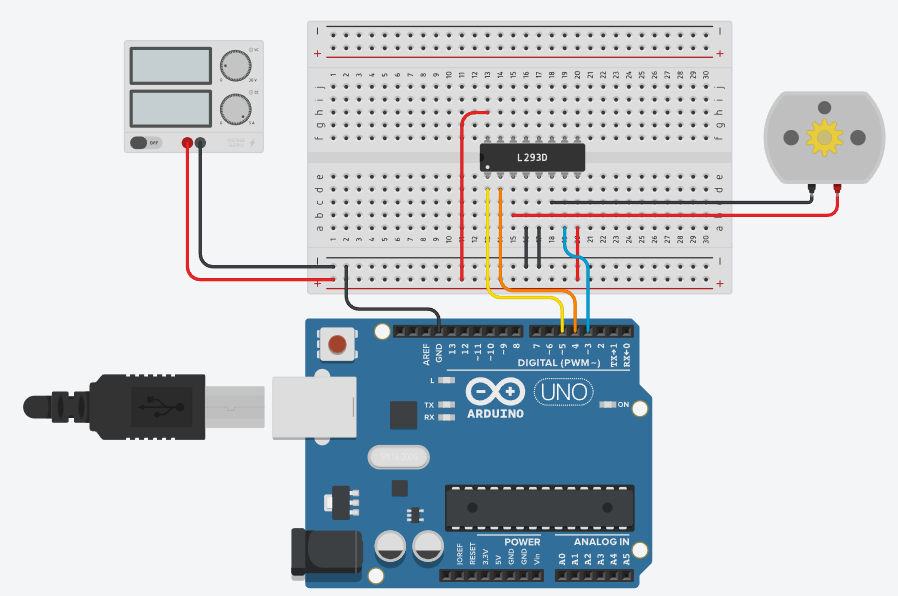
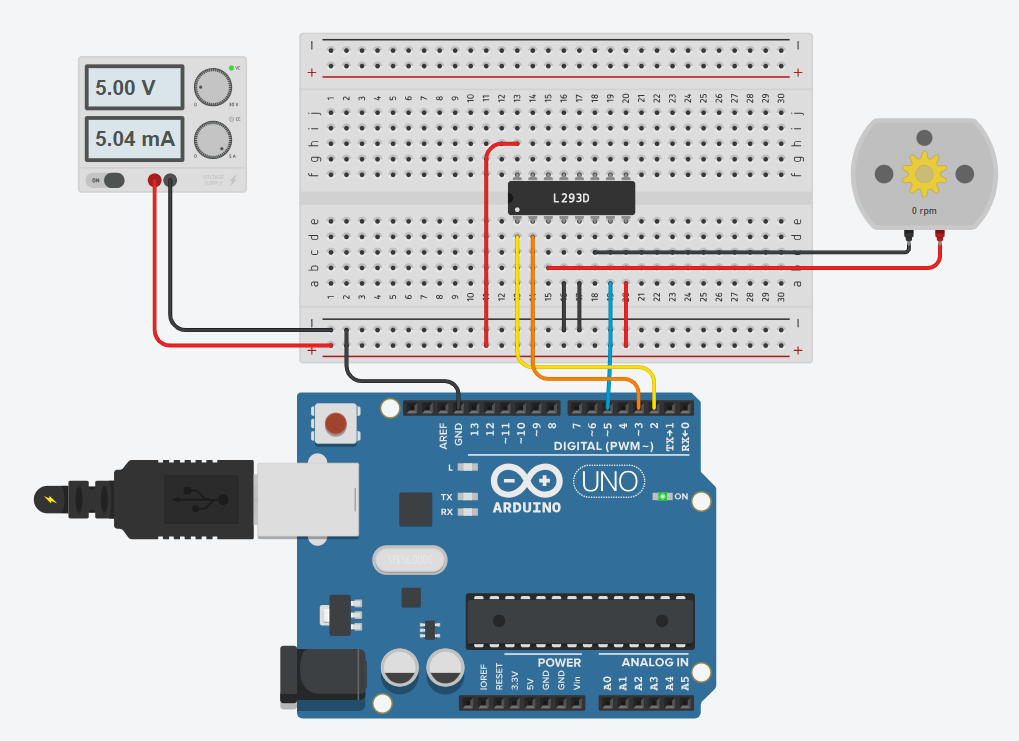
Bugfix - reported by Martin Kohl.

Changed region(s): [[0.0, 0.0302, 0.9978, 0.9966]]

diff --git a/sensors-and-actuators/motors/DCMotor-L293/README.md b/sensors-and-actuators/motors/DCMotor-L293/README.md
@@ -18,30 +18,30 @@ With the proper data inputs, each pair of drivers forms a **full-H (or bridge)**
 or motor applications.
 
 
+## Motor Forward and Backward
+
 ## Wiring Diagram 
 
-Connect the L293D pin 1 (M1 PWM) to the digital (PWM) pin 5 on the Arduino.  
-Output any integer between 0 and 255, where 0 will be off, 128 is half speed and 255 is max speed.
-
-L293D pin 2 (M1 direction 0/1) and L293D pin 7 (M1 direction 1/0) to the digital Arduino pins 4 and 3. 
-Output one pin as HIGH and the other pin as LOW, and the motor will spin in one direction.
-Reverse the outputs to LOW and HIGH, and the motor will spin in the other direction
+Connect the L293D ENABLE 1,2 (pin 1) to the digital pin 2 on the Arduino, 
+L293D Input 1 (pin 2) to Arduino digital pin 3 (PWM), 
+and L293D Input 2 (pin 7) to Arduino digital pin 5 (PWM).   
 
 ![DC Motor](DC-Motor-L293D.png)
 
-Note that the **DC motor needs its own power supply** (more current and sometimes higher voltage).
-In this case, the two **GND potentials must be connected** to each other (see circuit).
-
+Note that the **DC motor needs its own power supply** (more current and 
+sometimes higher voltage).
+In this case, the two **GND potentials must be connected** to each other!!
 
 
 ## Source Code
 
-No library is required for this example, since all signals can be output directly via the Arduino pins.
+No library is required for this example, since all signals can be output 
+directly via the Arduino pins.
 
 ```C
-const int ENABLE = 5;
-const int DIR_A = 3;
-const int DIR_B = 4;
+const int ENABLE = 2;
+const int DIR_A = 3;	
+const int DIR_B = 5;
 
 void setup() 
 {
@@ -52,29 +52,89 @@ void setup()
 
 void loop() 
 {
-    digitalWrite(ENABLE,HIGH);  
+    digitalWrite(ENABLE,HIGH); 
+  
+  	// forward
     digitalWrite(DIR_A,HIGH);    
     digitalWrite(DIR_B,LOW);
     delay(1000);
 
-    digitalWrite(ENABLE,LOW); 
+  	// stop
+    digitalWrite(DIR_A,LOW);    
+    digitalWrite(DIR_B,LOW);
     delay(1000);    
 
-    digitalWrite(ENABLE,HIGH); 
+  	// backward
     digitalWrite(DIR_A,LOW); 
     digitalWrite(DIR_B,HIGH);
     delay(1000);
 
-    digitalWrite(ENABLE,LOW); 
+  	// stop
+    digitalWrite(DIR_A,LOW);    
+    digitalWrite(DIR_B,LOW);
     delay(1000);    
 }
 ```
-Note that we need a **delay between the commands** to give the DC motor some time to move to follow.
+Note that we need a **delay between the commands** to give the DC motor 
+some time to move to follow.
+
+_Example (Tinkercad):_[Arduino: L293D + DC Motor](https://www.tinkercad.com/things/cquv6WcyB61) 
 
 
-## Simulation
+## Motor Speed 
 
-**Tinkercad**: [Arduino: L293D + DC Motor](https://www.tinkercad.com/things/cquv6WcyB61) 
+Using the Arduino PWM pins we can also control the speed of the motor.
+
+## Wiring Diagram 
+
+We use the same wiring diagram as before but we add an oscilloscope 
+to observe the PWM signal.
+
+![DC Motor PWM](DC-Motor-L293D-PWM.png)
+
+The value of a PWM output can be between `0` and `255`.
+The value `0` means output constant `LOW` and the value `255` means output 
+constant `HIGH` (i.e. maximum speed).
+
+## Source Code
+
+In this example also no library is required.
+
+```C
+const int ENABLE = 2;
+const int DIR_A = 3;	// PWM Pin
+const int DIR_B = 5;	// PWM Pin
+
+void setup() 
+{
+  	Serial.begin(115200);
+  
+    pinMode(ENABLE,OUTPUT);
+    pinMode(DIR_A,OUTPUT);
+    pinMode(DIR_B,OUTPUT);
+}
+
+void loop() 
+{
+    digitalWrite(ENABLE,HIGH); 
+    digitalWrite(DIR_A,LOW); 
+    digitalWrite(DIR_B,LOW);  
+  
+    for(int speed=50; speed < 250; speed += 25)
+    {
+  	  Serial.print("Speed: ");
+      Serial.println(speed);
+      analogWrite(DIR_A,speed);    
+      digitalWrite(DIR_B,LOW);
+      delay(5000);
+    }
+}
+```
+
+Note that we start with a PWM value of `50` because the motor will 
+not rotate below this value.
+
+_Example (Tinkercad):_[Arduino: L293D + DC Motor (Speed)](https://www.tinkercad.com/things/cpho9uGiEDM-arduino-l293d-dc-motor-speed) 
 
 
 ## References
@@ -83,4 +143,4 @@ Note that we need a **delay between the commands** to give the DC motor some tim
 * [YouTube: Arduino for Beginners 20 Using a Motor Shield](https://youtu.be/cqfkH7pyyfY)
 
 
-*Egon Teiniker, 2020 - 2022, GPL v3.0*
+*Egon Teiniker, 2020-2025, GPL v3.0*
